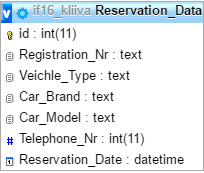
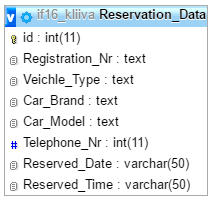
Broneeringu salvestamine töötab (Double bookinguga kahjuks) ning readme täiendused

diff --git a/page/tagasiside.html b/page/tagasiside.html
@@ -12,13 +12,13 @@
     <title>Tirejack - rehvivahetus</title>
 
     <!-- Bootstrap Core CSS -->
-    <link href="vendor/bootstrap/css/bootstrap.min.css" rel="stylesheet">
+    <link href="../vendor/bootstrap/css/bootstrap.min.css" rel="stylesheet">
 
     <!-- Theme CSS -->
-    <link href="css/freelancer.min.css" rel="stylesheet">
+    <link href="../css/freelancer.min.css" rel="stylesheet">
 
     <!-- Custom Fonts -->
-    <link href="vendor/font-awesome/css/font-awesome.min.css" rel="stylesheet" type="text/css">
+    <link href="../vendor/font-awesome/css/font-awesome.min.css" rel="stylesheet" type="text/css">
     <link href="https://fonts.googleapis.com/css?family=Montserrat:400,700" rel="stylesheet" type="text/css">
     <link href="https://fonts.googleapis.com/css?family=Lato:400,700,400italic,700italic" rel="stylesheet" type="text/css">
 
@@ -403,20 +403,20 @@
     </div>
 
     <!-- jQuery -->
-    <script src="vendor/jquery/jquery.min.js"></script>
+    <script src="../vendor/jquery/jquery.min.js"></script>
 
     <!-- Bootstrap Core JavaScript -->
-    <script src="vendor/bootstrap/js/bootstrap.min.js"></script>
+    <script src="../vendor/bootstrap/js/bootstrap.min.js"></script>
 
     <!-- Plugin JavaScript -->
     <script src="https://cdnjs.cloudflare.com/ajax/libs/jquery-easing/1.3/jquery.easing.min.js"></script>
 
     <!-- Contact Form JavaScript -->
-    <script src="js/jqBootstrapValidation.js"></script>
-    <script src="js/contact_me.js"></script>
+    <script src="../js/jqBootstrapValidation.js"></script>
+    <script src="../js/contact_me.js"></script>
 
     <!-- Theme JavaScript -->
-    <script src="js/freelancer.min.js"></script>
+    <script src="../js/freelancer.min.js"></script>
 
 </body>
 

diff --git a/page/index.html b/page/index.html
@@ -401,20 +401,20 @@
     </div>
 
     <!-- jQuery -->
-    <script src="vendor/jquery/jquery.min.js"></script>
+    <script src="../vendor/jquery/jquery.min.js"></script>
 
     <!-- Bootstrap Core JavaScript -->
-    <script src="vendor/bootstrap/js/bootstrap.min.js"></script>
+    <script src="../vendor/bootstrap/js/bootstrap.min.js"></script>
 
     <!-- Plugin JavaScript -->
     <script src="https://cdnjs.cloudflare.com/ajax/libs/jquery-easing/1.3/jquery.easing.min.js"></script>
 
     <!-- Contact Form JavaScript -->
-    <script src="js/jqBootstrapValidation.js"></script>
-    <script src="js/contact_me.js"></script>
+    <script src="../js/jqBootstrapValidation.js"></script>
+    <script src="../js/contact_me.js"></script>
 
     <!-- Theme JavaScript -->
-    <script src="js/freelancer.min.js"></script>
+    <script src="../js/freelancer.min.js"></script>
 
 </body>
 

diff --git a/page/Reservations.php b/page/Reservations.php
@@ -1,8 +1,8 @@
 <?php
 
 
-	require("../../config.php");
-	require("Functions.php");
+	require("../../../config.php");
+	require("../Functions.php");
 	
 	$veichle_type = "";
 	$car_brand = "";
@@ -14,7 +14,39 @@
 	$reg_nr_error = "";
 	$telephone_nr_error = "";
 	$veichle_type_error = "";
+	$date = "";
+	$time = "";
+	$time_error = "";
+	$date_error = "";
+
 	
+	if (isset($_GET["time"])) {
+		
+		if(empty($_GET["time"])) {
+			
+			$time_error = "Palun valige kellaaeg, millal soovite rehvivahetust";
+			
+		} else {
+			
+			$time = $_GET["time"];
+			
+		}
+		
+	}
+	
+	if (isset($_GET["date"])) {
+		
+		if (empty($_GET["date"])) {
+			
+			$date_error = "Palun valige kuupäev, millal tahate rehvivahetust";
+			
+		} else {
+			
+			$date = $_GET["date"];
+			
+		}
+		
+	}
 	
 	if(isset($_POST["veichle_type"])) {
 		
@@ -93,6 +125,10 @@
 	   isset($_POST["car_brand"]) &&
 	   isset($_POST["car_model"]) &&
 	   isset($_POST["telephone_nr"]) &&
+	   isset($_GET["date"]) &&
+	   isset($_GET["time"]) &&
+	   empty($time_error) &&
+	   empty($date_error) &&
 	   empty($reg_nr_error) &&
 	   empty($veichle_type_error) &&
 	   empty($car_brand_error) &&
@@ -100,15 +136,15 @@
 	   empty($telephone_nr_error)
 	) {
 		
-		echo "Salvestan....<br>";
-		echo "Sõiduki tüüp ".$veichle_type."<br>";
-		SaveReservation($reg_nr, $veichle_type, $car_brand, $car_model, $telephone_nr);
+		//echo "Salvestan....<br>";
+		//echo "Sõiduki tüüp ".$veichle_type."<br>";
+		SaveReservation($reg_nr, $veichle_type, $car_brand, $car_model, $telephone_nr, $date, $time);
 		
 	}
 
 ?>
 
-<?php require("Header.php"); ?>
+<?php require("../Header.php"); ?>
 
 
 <div class="container">
@@ -248,7 +284,7 @@
 			
 			<input type="submit" value="Broneeri" class="btn btn-primary">
 			
-			<input type=button onClick="parent.open('tagasiside.html')" value='Tagasiside' >	
+			<input type="button" onClick="parent.open('tagasiside.html')" value='Tagasiside' >	
 		
 			<br><br>			
 		</form>

diff --git a/Functions.php b/Functions.php
@@ -1,17 +1,17 @@
 <?php 
 
-	require("../../config.php");
+	require("../../../config.php");
 	
 	$database = "if16_kliiva";
 
 
-	function SaveReservation($reg_nr, $veichle_type, $car_brand, $car_model, $telephone_nr) {
+	function SaveReservation($reg_nr, $veichle_type, $car_brand, $car_model, $telephone_nr, $date, $time) {
 		
 		$mysqli = new mysqli($GLOBALS["serverHost"], $GLOBALS["serverUsername"], $GLOBALS["serverPassword"], $GLOBALS["database"]);
-		$stmt = $mysqli->prepare("INSERT INTO Reservation_Data (Registration_Nr, Veichle_Type, Car_Brand, Car_Model, Telephone_Nr) VALUES (?, ?, ?, ?, ?) ");
+		$stmt = $mysqli->prepare("INSERT INTO Reservation_Data (Registration_Nr, Veichle_Type, Car_Brand, Car_Model, Telephone_Nr, Reserved_Date, Reserved_Time) VALUES (?, ?, ?, ?, ?, ?, ?) ");
 		echo $mysqli->error;
 		
-		$stmt->bind_param("ssssi", $reg_nr, $veichle_type, $car_brand, $car_model, $telephone_nr);
+		$stmt->bind_param("ssssiss", $reg_nr, $veichle_type, $car_brand, $car_model, $telephone_nr, $date, $time);
 		if($stmt->execute()) {
 			
 			echo "Salvestamine õnnestus";
@@ -24,6 +24,7 @@
 		
 	}
 	
+	
 	function CleanInput($input) {
 		
 		$input = trim($input);
@@ -33,6 +34,9 @@
 		return $input;
 		
 	}
+	
+	
+	
 
 	
 ?>

diff --git a/Header.php b/Header.php
@@ -5,11 +5,11 @@
 		
 	<script src="https://ajax.googleapis.com/ajax/libs/jquery/3.1.1/jquery.min.js"></script>
 		
-		<!-- Latest compiled and minified CSS -->
-	<link rel="stylesheet" href="css/bootstrap.min.css">
+	<!-- Latest compiled and minified CSS -->
+	<link rel="stylesheet" href="../css/bootstrap.min.css">
 
 	<!-- Optional theme -->
-	<link rel="stylesheet" href="css/bootstrap-theme.min.css">
+	<link rel="stylesheet" href="../css/bootstrap-theme.min.css">
 
 	<!-- Latest compiled and minified JavaScript -->
 	<script src="https://maxcdn.bootstrapcdn.com/bootstrap/3.3.7/js/bootstrap.min.js"></script>

diff --git a/README.md b/README.md
@@ -20,7 +20,8 @@ meie veebirakenduse juures on see, et me pakume välja kõige kiirema aja inimes
 
 v0.1 Saab esilehel tagasisidet anda
 v0.2 Saab broneerida aega (algne olek - puudub veel kalendri salvestus)
-v0.3 Plaanitud (Saada tööle kalendri aja salvestuse)
+v0.3 Tagasiside nyyd eralide lehena (Pääseb ligi broneeringu lehelt)
+v0.4 Saab Broneeringu salvestada andmebaasi (Double bookingu probleem)
 
 ## Andmebaasi skeem pildina + tabelite loomise SQL laused
 
@@ -36,4 +37,9 @@ Telephone_Nr INT(11)
 ![Alt text](img/Andmebaas.png?raw=true "Andmebaas")
 
 ## Kokkuvõte
+
+Algselt oli plaan teha ka kasutaja loomise leht aga sellleni ei jõudnud ning näha oli ka, et selle jaoks puudus
+eriline vajadus, sest põhiline rõhk oli broneerimislehel. Projekt oli oodatust suurem ning seetõttu tekitas see ka raskusi.
+Edasi oleks seda veebirakendust võimalik ka lahendada - lisades juurde näiteks otsingu meetod erirehvide jaoks, kasutaja loomise leht,
+et oleks kergem broneerimisvormi täita jne.
 
